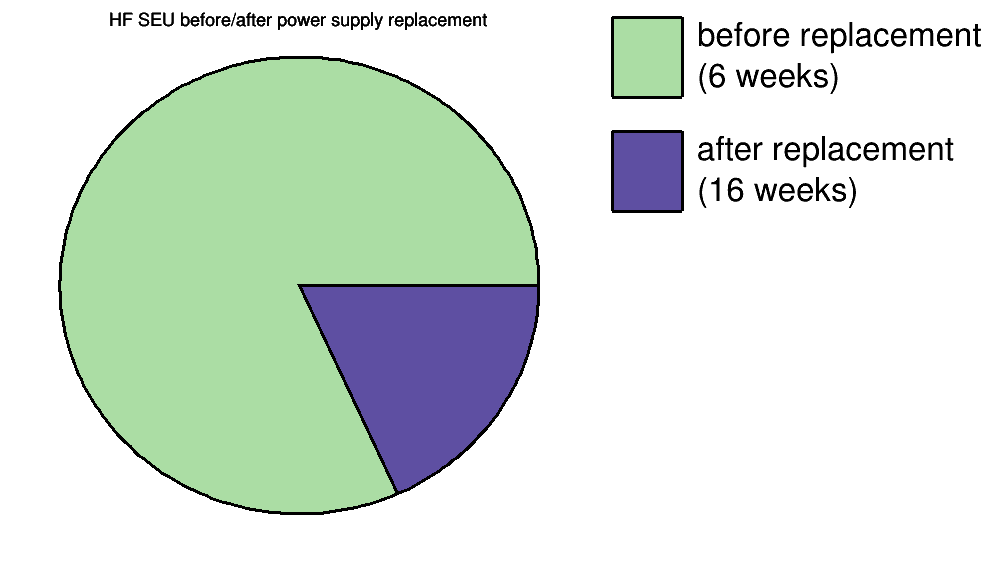
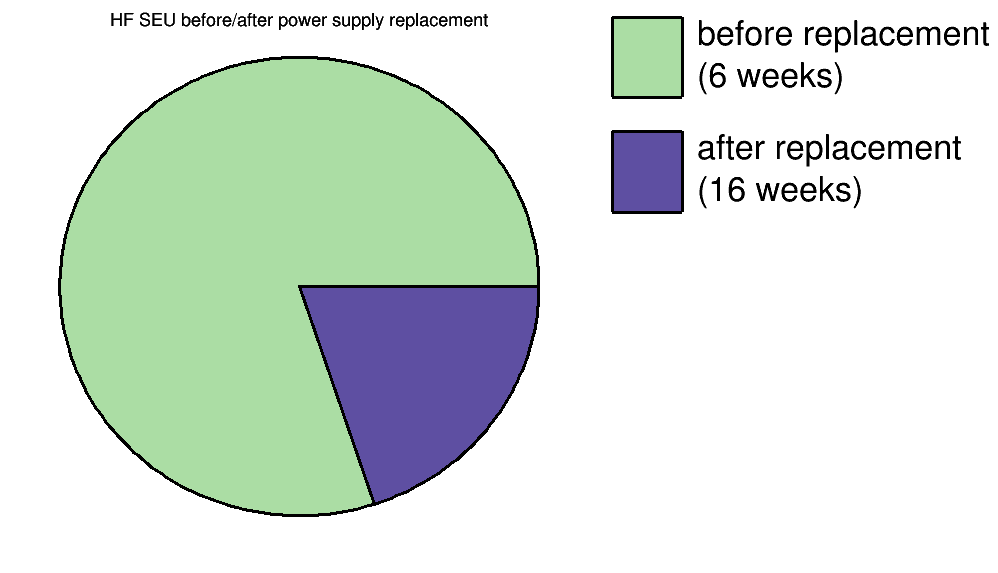
found elogs for LV=HFSEU

diff --git a/downtimes.cc b/downtimes.cc
@@ -133,23 +133,25 @@ void downtimes(){
   // Week 35
  float wk35_cmsrecorded = 1735.54;
  float  wk35_HF_302031 = 0.62; // HF high amplitudes
- float  wk35_LV_302277 = 0.7;  // HF LV + CapID
+ float  wk35_HFSEU_302277 = 0.7;  // HF LV + CapID
+   // http://cmsonline.cern.ch/cms-elog/1007864
+   // http://cmsonline.cern.ch/cms-elog/1007866
  float wk35_totalloss =
         wk35_HF_302031+
-        wk35_LV_302277; // = 1.32;
+        wk35_HFSEU_302277; // = 1.32;
  
   // Week 36
  float wk36_cmsrecorded = 2493.1;
  float  wk36_HF_302344 = 0.01; // HF high amplitudes, Fed 1121 issue
  float  wk36_HEHV_302388 = 1.25; // HEP01 HEP18 HV trip
- float  wk36_LV_302448 = 1.6;  // LV powercycle, Fed1121
+ float  wk36_HFSEU_302448 = 1.6;  // HFLV powercycle, Fed1121 http://cmsonline.cern.ch/cms-elog/1008459
  float  wk36_HBHV_302479 = 0.46; // HBP07 HV trip
  float  wk36_HEHV_302573 = 5.42; // HEM14 HV trip
  float  wk36_HO_302596 = 0.74; // HO high amplitudes, CapID errors
  float wk36_totalloss =
         wk36_HF_302344+
         wk36_HEHV_302388+
-        wk36_LV_302448+
+        wk36_HFSEU_302448+
         wk36_HBHV_302479+
         wk36_HEHV_302573+
         wk36_HO_302596; // = 9.48;
@@ -162,8 +164,8 @@ void downtimes(){
 
   // Week 38
  float wk38_cmsrecorded = 451.;
- float  wk38_LV_302634 = 0.68; 
- float wk38_totalloss = wk38_LV_302634; 
+ float  wk38_HFSEU_302634 = 0.68; 
+ float wk38_totalloss = wk38_HFSEU_302634; 
 
 /////////////////////////////////
   // Week 39
@@ -299,15 +301,14 @@ void downtimes(){
   + wk41_HFSEU_304661  // HF LV http://cmsonline.cern.ch/cms-elog/1014231
   + wk42_HFSEU_305310  // HF LV http://cmsonline.cern.ch/cms-elog/1016775
   + wk44_HFSEU_305814  // HF LV & HE HV http://cmsonline.cern.ch/cms-elog/1018384
-  + wk44_HFSEU_306092; // HF LV http://cmsonline.cern.ch/cms-elog/1019624
+  + wk44_HFSEU_306092  // HF LV http://cmsonline.cern.ch/cms-elog/1019624
+  + wk35_HFSEU_302277  // HF LV + CapID
+  + wk36_HFSEU_302448  // LV powercycle, Fed1121 http://cmsonline.cern.ch/cms-elog/1008459
+  + wk38_HFSEU_302634; // LV http://cmsonline.cern.ch/cms-elog/1009335
  // Total HF SEU losses
  float total_HFSEU = HFSEU_beforereplace + HFSEU_afterreplace;
 
  //  Low Voltage trips
- float total_LV =
-        wk35_LV_302277    + // HF LV + CapID
-        wk36_LV_302448    + // LV powercycle, Fed1121
-        wk38_LV_302634    ; // LV 
  //  High Voltage trips
  float HE_HV = 
         wk25_HEHV_297432    + // HEP18 HV http://cmsonline.cern.ch/cms-elog/993024
@@ -342,7 +343,7 @@ void downtimes(){
  float total_otherDCS =
         wk32_DCS          ; // HBHEb DCS
  //  Total DCS issues
- float total_DCS = total_LV + total_HV + total_otherDCS;
+ float total_DCS = total_HFSEU + total_HV + total_otherDCS;
 
  //  ngFEC 
  float total_ngFEC =
@@ -375,7 +376,6 @@ void downtimes(){
  // HFSEU_beforereplace   
  // HFSEU_afterreplace    
  // total_HFSEU           
- // total_LV              
  // total_HV              
  // total_otherDCS        
  // total_DCS             
@@ -423,7 +423,6 @@ void downtimes(){
 
  printf("HCAL Loss breakdown  \n");
  printf("  total_HFSEU    %5.1f /pb \n", total_HFSEU    );       
- printf("  total_LV       %5.1f /pb \n", total_LV       );       
  printf("   total_HEHV    %5.1f /pb \n", HE_HV       );       
  printf("   total_HBHV    %5.1f /pb \n", HB_HV       );       
  printf("  total_HV       %5.1f /pb \n", total_HV       );       
@@ -434,7 +433,6 @@ void downtimes(){
  printf(" total_Other    %5.1f /pb \n", total_Other    ); 
  float total_HCALcrosscheck = 
   total_HFSEU    +       
-  total_LV       +       
   total_HV       +       
   total_otherDCS +       
   total_ngFEC    +       
@@ -444,8 +442,8 @@ void downtimes(){
   total_HCALloss, total_HCALcrosscheck);
  printf(" DCS %5.1f = %5.1f /pb \n",
   total_DCS      ,
-  total_LV       +       
   total_HV       +       
+  total_HFSEU    +
   total_otherDCS );
 
  printf(" Weekly Breakdown\n");
@@ -643,7 +641,6 @@ void downtimes(){
  ///// HCAL downtime by type
  float vals_hcal_totalbytype[] = {
   total_HFSEU   ,
-  total_LV      ,
   HE_HV    ,
   HB_HV    ,
   total_otherDCS,
@@ -672,13 +669,12 @@ void downtimes(){
  pie_hcal_totalbytype->SetLabelFormat("");
  pie_hcal_totalbytype->SetCircle(.5,.5,.4);
  pie_hcal_totalbytype->SetEntryLabel(0 ,"HFSEU   ");
- pie_hcal_totalbytype->SetEntryLabel(1 ,"LV      ");
- pie_hcal_totalbytype->SetEntryLabel(2 ,"HE HV   ");
- pie_hcal_totalbytype->SetEntryLabel(3 ,"HB HV   ");
- pie_hcal_totalbytype->SetEntryLabel(4 ,"otherDCS");
- pie_hcal_totalbytype->SetEntryLabel(5 ,"ngFEC   ");
- pie_hcal_totalbytype->SetEntryLabel(6 ,"BadData ");
- pie_hcal_totalbytype->SetEntryLabel(7 ,"Other   ");
+ pie_hcal_totalbytype->SetEntryLabel(1 ,"HE HV   ");
+ pie_hcal_totalbytype->SetEntryLabel(2 ,"HB HV   ");
+ pie_hcal_totalbytype->SetEntryLabel(3 ,"otherDCS");
+ pie_hcal_totalbytype->SetEntryLabel(4 ,"ngFEC   ");
+ pie_hcal_totalbytype->SetEntryLabel(5 ,"BadData ");
+ pie_hcal_totalbytype->SetEntryLabel(6 ,"Other   ");
  pie_hcal_totalbytype->SetEntryLineWidth(0 ,3);
  pie_hcal_totalbytype->SetEntryLineWidth(1 ,3);
  pie_hcal_totalbytype->SetEntryLineWidth(2 ,3);
@@ -686,7 +682,6 @@ void downtimes(){
  pie_hcal_totalbytype->SetEntryLineWidth(4 ,3);
  pie_hcal_totalbytype->SetEntryLineWidth(5 ,3);
  pie_hcal_totalbytype->SetEntryLineWidth(6 ,3);
- pie_hcal_totalbytype->SetEntryLineWidth(7 ,3);
 
  TLegend *leg_hcal_totalbytype = pie_hcal_totalbytype->MakeLegend();
 
@@ -707,7 +702,6 @@ void downtimes(){
  ///// HCAL DCS downtime by type
  float vals_hcal_dcsbytype[] = {
   total_HFSEU,
-  total_LV ,
   HE_HV ,
   HB_HV ,
   total_otherDCS
@@ -730,15 +724,13 @@ void downtimes(){
  pie_hcal_dcsbytype->SetLabelFormat("");
  pie_hcal_dcsbytype->SetCircle(.5,.5,.4);
  pie_hcal_dcsbytype->SetEntryLabel(0 ,"HFSEU   ");
- pie_hcal_dcsbytype->SetEntryLabel(1 ,"LV      ");
- pie_hcal_dcsbytype->SetEntryLabel(2 ,"HE HV   ");
- pie_hcal_dcsbytype->SetEntryLabel(3 ,"HB HV   ");
- pie_hcal_dcsbytype->SetEntryLabel(4 ,"otherDCS");
+ pie_hcal_dcsbytype->SetEntryLabel(1 ,"HE HV   ");
+ pie_hcal_dcsbytype->SetEntryLabel(2 ,"HB HV   ");
+ pie_hcal_dcsbytype->SetEntryLabel(3 ,"otherDCS");
  pie_hcal_dcsbytype->SetEntryLineWidth(0 ,3);
  pie_hcal_dcsbytype->SetEntryLineWidth(1 ,3);
  pie_hcal_dcsbytype->SetEntryLineWidth(2 ,3);
  pie_hcal_dcsbytype->SetEntryLineWidth(3 ,3);
- pie_hcal_dcsbytype->SetEntryLineWidth(4 ,3);
 
  TLegend *leg_hcal_dcsbytype = pie_hcal_dcsbytype->MakeLegend();
 
